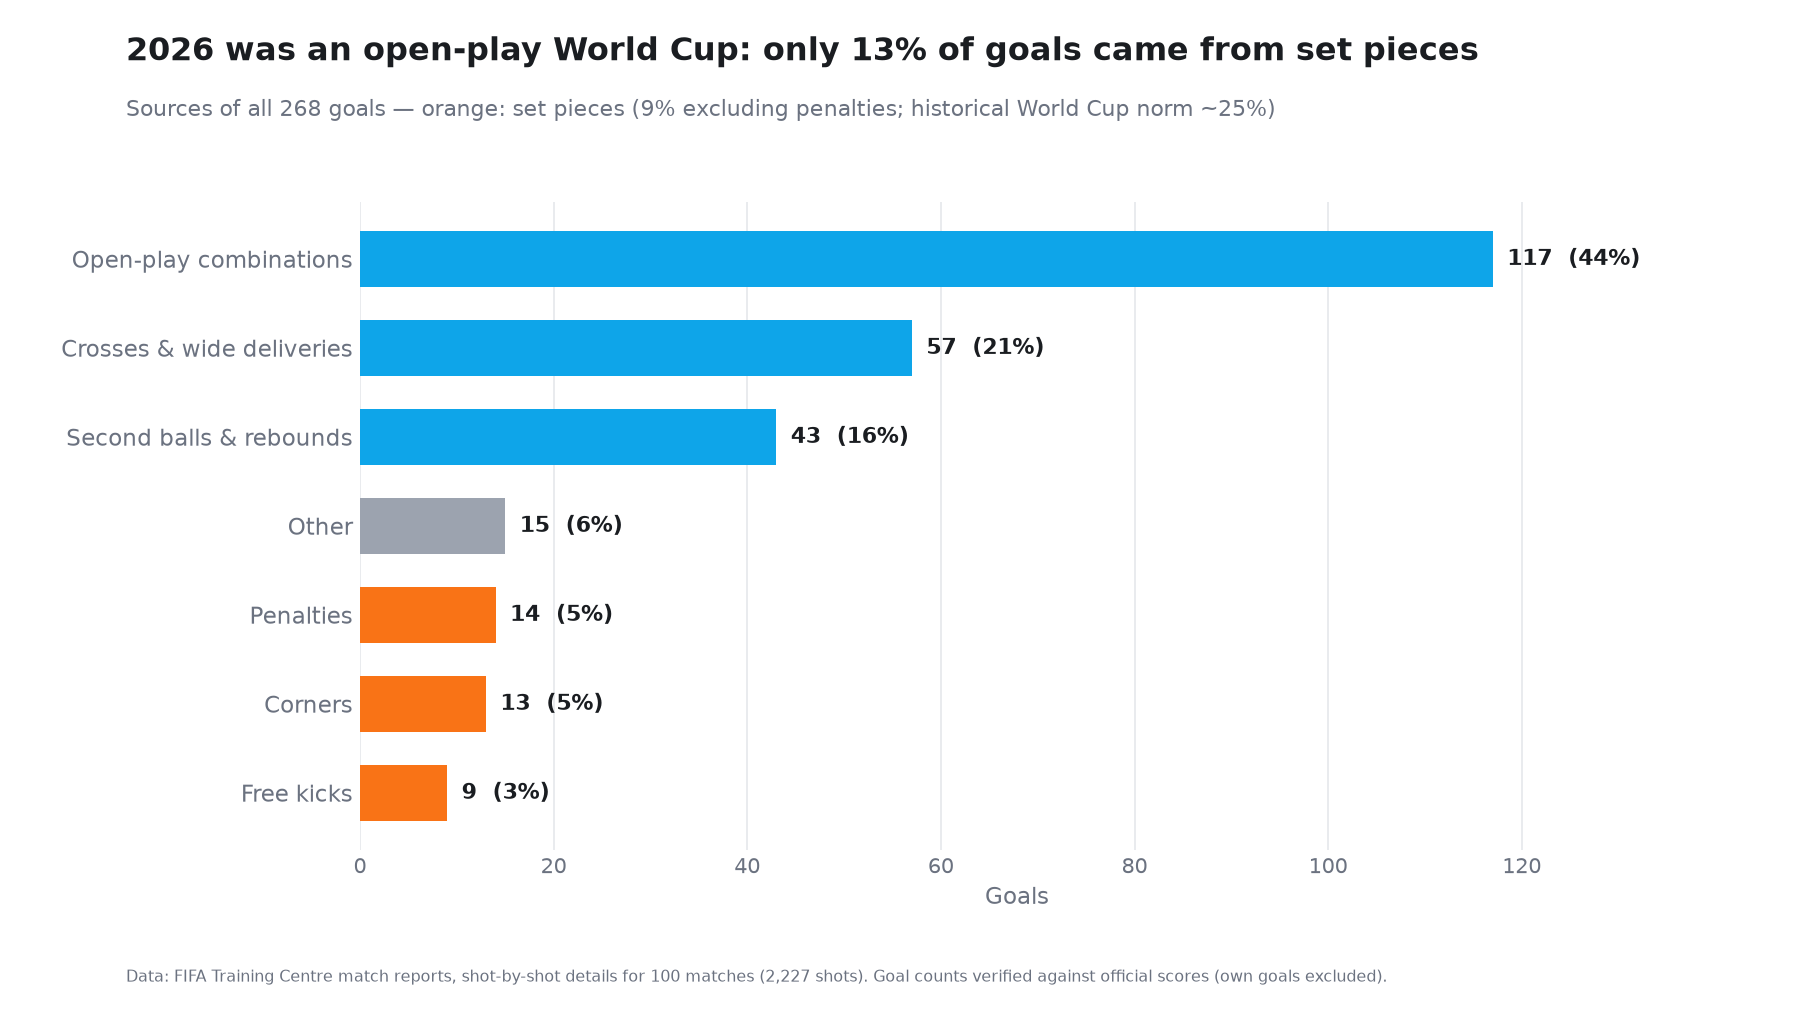
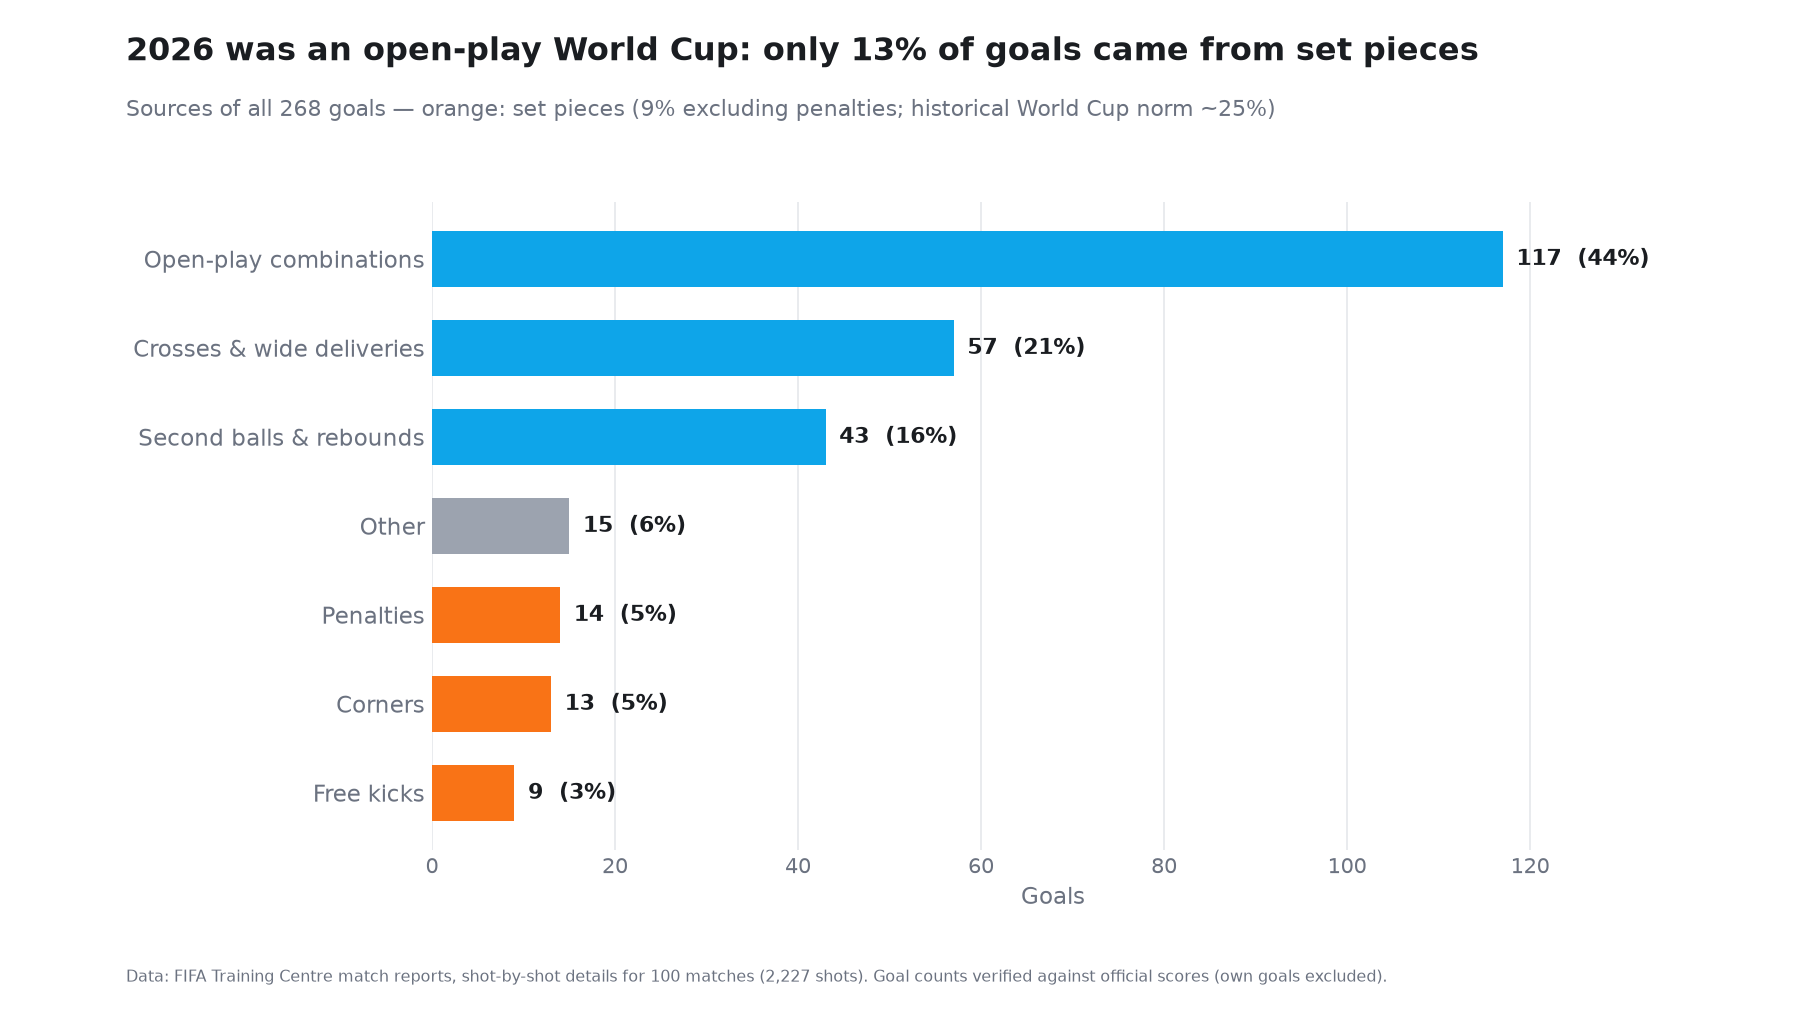
Fix clipped y-axis labels in goal sources figures

diff --git a/scripts/make_figs_en.py b/scripts/make_figs_en.py
@@ -128,7 +128,7 @@ colors = {"Open-play combinations": C_BLUE, "Crosses & wide deliveries": C_BLUE,
           "Second balls & rebounds": C_BLUE, "Other": "#9ca3af",
           "Penalties": C_ORANGE, "Corners": C_ORANGE, "Free kicks": C_ORANGE}
 fig, ax = plt.subplots(figsize=(12, 6.75))
-fig.subplots_adjust(top=0.80, bottom=0.16, left=0.20, right=0.93)
+fig.subplots_adjust(top=0.80, bottom=0.16, left=0.24, right=0.93)
 items = [(EN_DEL[k], v) for k, v in src.items()][::-1]
 names = [i[0] for i in items]; vals = [i[1] for i in items]
 bars = ax.barh(names, vals, height=0.62, color=[colors[n] for n in names], zorder=3)

diff --git a/scripts/make_finding_figs.py b/scripts/make_finding_figs.py
@@ -100,7 +100,7 @@ colors = {"Açık oyun – pas organizasyonu": C_BLUE, "Orta / kanat servisi": C
           "Korner": C_ORANGE, "Serbest vuruş": C_ORANGE}
 
 fig, ax = plt.subplots(figsize=(12, 6.75))
-fig.subplots_adjust(top=0.80, bottom=0.16, left=0.16, right=0.93)
+fig.subplots_adjust(top=0.80, bottom=0.16, left=0.26, right=0.93)
 items = [(TR_DEL[k], v) for k, v in src.items()][::-1]
 names = [i[0] for i in items]; vals = [i[1] for i in items]
 bars = ax.barh(names, vals, height=0.62,